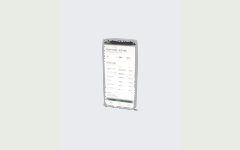
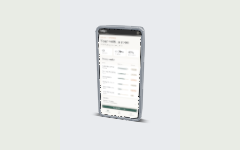
T-P9c: apply accepted polish across all device classes

Changed region(s): [[0.3792, 0.16, 0.6125, 0.8267]]

diff --git a/src/devices/build.ts b/src/devices/build.ts
@@ -1,5 +1,6 @@
 import {
   Box3,
+  type BufferGeometry,
   CylinderGeometry,
   ExtrudeGeometry,
   Group,
@@ -15,6 +16,7 @@ import {
   Texture,
   Vector3,
 } from 'three';
+import { toCreasedNormals } from 'three/addons/utils/BufferGeometryUtils.js';
 import { screenRect, shapeHash, type DeviceSpec } from './spec';
 import { patchScreen } from '../screen/material';
 import type { FitMode, Size } from '../screen/types';
@@ -143,7 +145,7 @@ interface SlabOpts {
 }
 
 /** Extruded rounded slab spanning x∈[−w/2,w/2], y∈[−h/2,h/2], z∈[0,depth]. */
-function slabGeometry(o: SlabOpts): ExtrudeGeometry {
+function slabGeometry(o: SlabOpts): BufferGeometry {
   const b = Math.min(o.bevel, o.depth / 2 - 1e-6, o.radius);
   const shape = new Shape();
   roundedRect(o.w - 2 * b, o.h - 2 * b, o.radius - b, shape);
@@ -163,8 +165,14 @@ function slabGeometry(o: SlabOpts): ExtrudeGeometry {
     steps: 1,
   });
   g.translate(0, 0, b); // ExtrudeGeometry spans z∈[−b, depth−b]; shift to [0, depth]
-  g.computeVertexNormals();
-  return g;
+  // The pinned utility hashes positions at 0.01 units. Work in millimetres
+  // so neighbouring corners of a metre-scale device are not merged together.
+  // It changes normals only; the outline, triangles and UVs stay unchanged.
+  g.scale(1000, 1000, 1000);
+  const smooth = toCreasedNormals(g, Math.PI / 3);
+  smooth.scale(0.001, 0.001, 0.001);
+  if (smooth !== g) g.dispose();
+  return smooth;
 }
 
 function edgeBevel(spec: DeviceSpec, depth: number): number {
@@ -173,6 +181,7 @@ function edgeBevel(spec: DeviceSpec, depth: number): number {
 
 interface Materials {
   frame: MeshPhysicalMaterial;
+  screenBacking: MeshPhysicalMaterial;
   key: MeshPhysicalMaterial;
   well: MeshPhysicalMaterial;
   screen: MeshPhysicalMaterial;
@@ -197,8 +206,16 @@ export function emissiveCompensation(clearcoat: number): number {
   return 1 / (1 - clearcoat * CLEARCOAT_F0);
 }
 
-function makeMaterials(spec: DeviceSpec): Materials {
+function makeMaterials(spec: DeviceSpec, darkScreenRecess: boolean): Materials {
   return {
+    // Physical screens reveal a dark recess at the SDF edge. Flat classes
+    // match the shell to avoid emphasizing edge stipple against white pads.
+    // This material belongs to the existing backplate, not a glass layer.
+    screenBacking: new MeshPhysicalMaterial({
+      color: darkScreenRecess ? 0x080a0d : 0xd9dde3,
+      metalness: darkScreenRecess ? 0 : spec.frameMetalness,
+      roughness: darkScreenRecess ? 0.85 : spec.frameRoughness,
+    }),
     frame: new MeshPhysicalMaterial({
       color: 0xd9dde3,
       metalness: spec.frameMetalness,
@@ -276,7 +293,7 @@ function buildSlab(
       radius: open.radius + bevel,
       bevel: 0,
     }),
-    mats.frame,
+    mats.screenBacking,
   );
   backplate.name = 'backplate';
   backplate.position.z = BUILDER_RATIOS.gap;
@@ -462,10 +479,10 @@ function buildInto(root: Group, spec: DeviceSpec, mats: Materials, browser: bool
   return { ...parts, bounds };
 }
 
-export function buildDevice(initial: DeviceSpec, browser = false): DeviceRig {
+export function buildDevice(initial: DeviceSpec, browser = false, darkScreenRecess = true): DeviceRig {
   const group = new Group();
   group.name = 'device';
-  const mats = makeMaterials(initial);
+  const mats = makeMaterials(initial, darkScreenRecess);
   let spec = { ...initial };
   let hash = shapeHash(spec);
   let built = buildInto(group, spec, mats, browser);
@@ -491,6 +508,10 @@ export function buildDevice(initial: DeviceSpec, browser = false): DeviceRig {
       spec = { ...next };
       mats.frame.metalness = spec.frameMetalness;
       mats.frame.roughness = spec.frameRoughness;
+      if (!darkScreenRecess) {
+        mats.screenBacking.metalness = spec.frameMetalness;
+        mats.screenBacking.roughness = spec.frameRoughness;
+      }
       mats.screen.clearcoat = spec.glassClearcoat;
       mats.screen.emissiveIntensity = emissiveCompensation(spec.glassClearcoat);
       const h = shapeHash(spec);

diff --git a/src/scene.ts b/src/scene.ts
@@ -170,7 +170,7 @@ export function createStage(initialDevice: DeviceId, initialScene: SceneId, aspe
 
   let id: DeviceId = initialDevice;
   let sceneId: SceneId = initialScene;
-  let rig: DeviceRig = buildDevice(presetSpec(id), id === 'browser');
+  let rig: DeviceRig = buildDevice(presetSpec(id), id === 'browser', id !== 'browser' && id !== 'card');
   rig.group.name = 'device-rig';
   posePivot.add(rig.group);
   let localGeometry: readonly number[] = cachedLocalGeometry(rig.group, id, rig.spec);
@@ -236,7 +236,9 @@ export function createStage(initialDevice: DeviceId, initialScene: SceneId, aspe
       || verticalTangent <= 0 || horizontalTangent <= 0) {
       throw new Error('Unable to frame device safely.');
     }
-    const referenceFit = Math.max(size.y, size.x / REFERENCE_ASPECT, size.z / REFERENCE_ASPECT) / FRAME_FILL;
+    // P-15 changes only the phone's reference fill; safe framing still follows.
+    const referenceFill = device === 'phone' ? 0.82 : FRAME_FILL;
+    const referenceFit = Math.max(size.y, size.x / REFERENCE_ASPECT, size.z / REFERENCE_ASPECT) / referenceFill;
     const referenceDist = referenceFit / 2 / Math.tan((CAMERA_FOV * Math.PI) / 360) + Math.max(size.z, size.x) / 2;
     const lensScale = Math.tan((CAMERA_FOV * Math.PI) / 360) / Math.tan((fov0 * Math.PI) / 360);
     const candidate = new PerspectiveCamera(fov, aspect, 0.01, 50);
@@ -371,7 +373,7 @@ export function createStage(initialDevice: DeviceId, initialScene: SceneId, aspe
       let committed = false;
       try {
         if (shapeChanged) {
-          candidateRig = buildDevice(next.spec, next.device === 'browser');
+          candidateRig = buildDevice(next.spec, next.device === 'browser', next.device !== 'browser' && next.device !== 'card');
           if (image) candidateRig.setImage(image.texture, { w: image.meta.width, h: image.meta.height });
           candidateRig.setImageFit(next.fit, next.pad, next.padColor);
         }
@@ -430,7 +432,7 @@ export function createStage(initialDevice: DeviceId, initialScene: SceneId, aspe
       posePivot.remove(rig.group);
       rig.dispose();
       id = next;
-      rig = buildDevice(presetSpec(id), id === 'browser');
+      rig = buildDevice(presetSpec(id), id === 'browser', id !== 'browser' && id !== 'card');
       rig.group.name = 'device-rig';
       posePivot.add(rig.group);
       scene.updateMatrixWorld(true);

diff --git a/src/devices/build.test.ts b/src/devices/build.test.ts
@@ -10,6 +10,41 @@ function size(rig: ReturnType<typeof buildDevice>): Vector3 {
 }
 
 describe('§4.2 device builder', () => {
+  it.each(DEVICE_IDS)('T-P9c %s owns its appropriate backing across rebuilds', (id) => {
+    const dark = id !== 'browser' && id !== 'card';
+    const rig = buildDevice(presetSpec(id), id === 'browser', dark);
+    const backing = rig.group.getObjectByName('backplate') as Mesh;
+    const material = backing.material as MeshStandardMaterial;
+    expect(material).not.toBe(rig.frame.material);
+    if (dark) expect(Math.max(material.color.r, material.color.g, material.color.b)).toBeLessThan(0.01);
+    else expect(material.color.equals((rig.frame.material as MeshStandardMaterial).color)).toBe(true);
+    let disposed = 0;
+    material.addEventListener('dispose', () => disposed++);
+    rig.update({ ...rig.spec, w: rig.spec.w + 0.001 });
+    expect((rig.group.getObjectByName('backplate') as Mesh).material).toBe(material);
+    expect(disposed).toBe(0);
+    if (!dark) {
+      rig.update({ ...rig.spec, frameMetalness: 0.22, frameRoughness: 0.44 });
+      expect(material.metalness).toBe(0.22); expect(material.roughness).toBe(0.44);
+    }
+    rig.dispose();
+    expect(disposed).toBe(1);
+  });
+
+  it.each(DEVICE_IDS)('T-P9c %s bevel normals vary within triangles, avoiding flat bands', (id) => {
+    const rig = buildDevice(presetSpec(id), id === 'browser');
+    const normals = rig.frame.geometry.getAttribute('normal');
+    const a = new Vector3(); const b = new Vector3();
+    let interpolated = 0;
+    for (let i = 0; i < normals.count; i += 3) {
+      a.fromBufferAttribute(normals, i); b.fromBufferAttribute(normals, i + 1);
+      expect(a.length()).toBeCloseTo(1, 5);
+      if (a.dot(b) < 0.9999) interpolated++;
+    }
+    expect(interpolated).toBeGreaterThan(10);
+    rig.dispose();
+  });
+
   it.each(DEVICE_IDS)('%s bounding box matches its spec', (id) => {
     const spec = PRESETS[id];
     const rig = buildDevice(spec, id === 'browser');

diff --git a/src/scene/presets.ts b/src/scene/presets.ts
@@ -7,6 +7,8 @@
  * Colours are linear RGB triples except `background`, which is the sRGB hex
  * the page and `scene.background` show. Angles are degrees.
  */
+import type { DeviceId } from '../devices/presets';
+
 export const SCENE_IDS = ['soft-studio', 'dark-glass', 'warm-sunset', 'clean-white'] as const;
 export type SceneId = (typeof SCENE_IDS)[number];
 
@@ -41,11 +43,11 @@ const WHITE: Rgb = [1, 1, 1];
 export const SCENE_PRESETS: Readonly<Record<SceneId, ScenePreset>> = {
   'soft-studio': {
     background: '#e9ebee',
-    sky: { zenith: WHITE, horizon: [0.85 * 0.847, 0.85 * 0.867, 0.85 * 0.902], ground: [0.45 * 0.604, 0.45 * 0.627, 0.45 * 0.659] },
-    window: { elevation: 45, azimuth: -35, size: [40, 25], colour: WHITE, intensity: 6 },
+    sky: { zenith: [0.8, 0.85, 0.92], horizon: [0.30, 0.33, 0.38], ground: [0.08, 0.09, 0.11] },
+    window: { elevation: 35, azimuth: 140, size: [45, 35], colour: WHITE, intensity: 16 },
     key: { colour: WHITE, intensity: 2.0, position: [0.6, 1.2, 0.8] },
     exposure: 1.0,
-    shadow: { opacity: 0.55, blur: 2.5 },
+    shadow: { opacity: 0.84, blur: 6.0 },
     sigma: 0.03,
   },
   'dark-glass': {
@@ -81,4 +83,17 @@ export const SCENE_PRESETS: Readonly<Record<SceneId, ScenePreset>> = {
 
 export function isSceneId(id: string): id is SceneId {
   return (SCENE_IDS as readonly string[]).includes(id);
+}
+
+/** T-P9c: a broad base needs less spread than an upright phone's contact. */
+const STUDIO_SHADOWS: Readonly<Record<DeviceId, ScenePreset['shadow']>> = {
+  phone: { opacity: 0.84, blur: 6 },
+  tablet: { opacity: 0.82, blur: 5 },
+  laptop: { opacity: 0.72, blur: 4.5 },
+  browser: { opacity: 0.72, blur: 4.5 },
+  card: { opacity: 0.65, blur: 4.5 },
+};
+
+export function contactShadowPreset(scene: SceneId, device: DeviceId): ScenePreset['shadow'] {
+  return scene === 'soft-studio' ? STUDIO_SHADOWS[device] : SCENE_PRESETS[scene].shadow;
 }

diff --git a/src/devices/presets.ts b/src/devices/presets.ts
@@ -15,33 +15,33 @@ const UPRIGHT = Math.PI / 2;
 
 export const PRESETS: Readonly<Record<DeviceId, DeviceSpec>> = {
   phone: {
-    w: 0.072, h: 0.150, depth: 0.008,
-    cornerRadius: 0.010, bezel: 0.0035, screenInset: 0.0008,
-    frameMetalness: 0.8, frameRoughness: 0.35, glassClearcoat: 1.0,
+    w: 0.07266, h: 0.150, depth: 0.010,
+    cornerRadius: 0.010, bezel: 0.0042, screenInset: 0.0008,
+    frameMetalness: 0.95, frameRoughness: 0.18, glassClearcoat: 1.0,
     standType: 'none', hingeAngle: UPRIGHT,
   },
   tablet: {
-    w: 0.250, h: 0.178, depth: 0.0065,
+    w: 0.250, h: 0.178, depth: 0.008,
     cornerRadius: 0.012, bezel: 0.009, screenInset: 0.0008,
-    frameMetalness: 0.8, frameRoughness: 0.4, glassClearcoat: 1.0,
+    frameMetalness: 0.95, frameRoughness: 0.24, glassClearcoat: 1.0,
     standType: 'none', hingeAngle: UPRIGHT,
   },
   laptop: {
-    w: 0.312, h: 0.212, depth: 0.006,
+    w: 0.312, h: 0.212, depth: 0.007,
     cornerRadius: 0.008, bezel: 0.007, screenInset: 0.0008,
-    frameMetalness: 0.7, frameRoughness: 0.45, glassClearcoat: 0.6,
+    frameMetalness: 0.9, frameRoughness: 0.28, glassClearcoat: 0.6,
     standType: 'hinge', hingeAngle: 1.85, // ~106°, the by-eye default (§10)
   },
   browser: {
     w: 0.320, h: 0.200, depth: 0.004,
     cornerRadius: 0.009, bezel: 0.004, screenInset: 0.0006,
-    frameMetalness: 0.0, frameRoughness: 0.6, glassClearcoat: 0.0,
+    frameMetalness: 0.35, frameRoughness: 0.32, glassClearcoat: 0.0,
     standType: 'none', hingeAngle: UPRIGHT,
   },
   card: {
     w: 0.300, h: 0.200, depth: 0.003,
     cornerRadius: 0.012, bezel: 0.001, screenInset: 0.0005,
-    frameMetalness: 0.0, frameRoughness: 0.7, glassClearcoat: 0.0,
+    frameMetalness: 0.15, frameRoughness: 0.4, glassClearcoat: 0.0,
     standType: 'none', hingeAngle: UPRIGHT,
   },
 };

diff --git a/src/scene/studio.ts b/src/scene/studio.ts
@@ -4,7 +4,7 @@ import type { Stage } from '../scene';
 import { ContactShadow } from './contactShadow';
 import { generateEnvironment, type EnvironmentMap } from './environment';
 import { createPipeline, type Pipeline } from './pipeline';
-import { SCENE_IDS, SCENE_PRESETS, isSceneId, type SceneId } from './presets';
+import { SCENE_IDS, SCENE_PRESETS, contactShadowPreset, isSceneId, type SceneId } from './presets';
 import { defaultBackground, prepareBackground, validateBackground, type BackgroundSettings } from './background';
 
 export type ToneMappingId = 'agx' | 'aces';
@@ -68,7 +68,11 @@ export function createStudio(renderer: WebGLRenderer, stage: Stage, opts: { msaa
     if (!shadow || !shadowDirty) return;
     const viewport = renderer.getViewport(new Vector4()); const scissor = renderer.getScissor(new Vector4());
     const scissorTest = renderer.getScissorTest();
-    try { renderer.setScissorTest(false); shadow.fit(stage.getWorldBounds()); shadow.render(renderer, stage.scene); shadowDirty = false; }
+    try {
+      renderer.setScissorTest(false);
+      shadow.setParams(contactShadowPreset(settings.scene, stage.getDevice()));
+      shadow.fit(stage.getWorldBounds()); shadow.render(renderer, stage.scene); shadowDirty = false;
+    }
     finally { renderer.setViewport(viewport); renderer.setScissor(scissor); renderer.setScissorTest(scissorTest); }
   }
   function render(): void {

diff --git a/guards/panel.test.ts b/guards/panel.test.ts
@@ -93,11 +93,11 @@ it('T-P6 review: invalid edits remain errors until corrected or replaced by rese
     await height.fill('160');
     expect(await width.inputValue()).toBe('19');expect(await width.getAttribute('aria-invalid')).toBe('true');
     expect(await error.innerText()).toContain('Width');
-    expect(await page.evaluate(()=>window.__plinth.getSpec().w)).toBe(.072);
+    expect(await page.evaluate(()=>window.__plinth.getSpec().w)).toBe(.07266);
     await page.locator('#reset').click();
-    expect(await width.inputValue()).toBe('72');expect(await width.getAttribute('aria-invalid')).toBeNull();
+    expect(await width.inputValue()).toBe('72.66');expect(await width.getAttribute('aria-invalid')).toBeNull();
     expect(await width.getAttribute('aria-describedby')).toBeNull();expect(await error.innerText()).toBe('');
-    expect(await page.evaluate(()=>window.__plinth.getSpec().w)).toBe(.072);
+    expect(await page.evaluate(()=>window.__plinth.getSpec().w)).toBe(.07266);
     await width.fill('19');await page.locator('[data-composition="warm-card"]').click();
     expect(await width.inputValue()).toBe('300');expect(await width.getAttribute('aria-invalid')).toBeNull();
     expect(await error.innerText()).toBe('');expect(await page.evaluate(()=>window.__plinth.getSpec().w)).toBe(.3);

diff --git a/src/scene.test.ts b/src/scene.test.ts
@@ -63,6 +63,20 @@ describe('T-P2 stage', () => {
 });
 
 describe('T-P5 world framing and posing', () => {
+  it('T-P9c uses the literal P-15 phone fill and preserves other reference fills', () => {
+    for (const id of DEVICE_IDS) {
+      const stage = createStage(id, 'soft-studio', 1.6);
+      const bounds = geometryWorldBounds(stage.getRig().group);
+      const size = bounds.getSize(new Vector3());
+      const fill = id === 'phone' ? 0.82 : 0.6;
+      const wide = ['tablet', 'browser', 'card'].includes(id);
+      const expected = (Math.max(size.y, size.x / 1.6, size.z / 1.6) / fill / 2 / Math.tan(16 * Math.PI / 180)
+        + Math.max(size.x, size.z) / 2) * Math.tan(16 * Math.PI / 180) / Math.tan((wide ? 12 : 16) * Math.PI / 180);
+      expect(stage.camera.position.distanceTo(bounds.getCenter(new Vector3()))).toBeCloseTo(expected, 7);
+      stage.dispose();
+    }
+  });
+
   const aspects = [1, 4 / 5, 9 / 16, 16 / 9, 3];
   const poses = ['front', 'hero', 'top', 'lean'] as const;
   const cornersOf = (box: Box3): Vector3[] => {

diff --git a/docs/tickets/T-P9c.md b/docs/tickets/T-P9c.md
@@ -13,8 +13,9 @@ portrait-demo margins remain explicit: no silent crop or upload replacement.
 ## Scope
 
 1. Implement the accepted phone dimensions/material, dark screen backing,
-   and smooth solid-surface normals. Extend backing and smoothing to every
-   device, including the laptop base. Preserve geometry positions and UVs;
+   and smooth solid-surface normals. Extend smoothing to every device and
+   the laptop base; use F16's dark recess for physical devices and shell
+   backing for flat browser/card classes. Preserve geometry positions and UVs;
    handle the pinned normal utility in millimetres before returning to metres.
 2. Apply F13's device material/depth table. Keep tablet/laptop screen
    proportions and hinge; browser/card retain their thin shapes.
@@ -44,14 +45,36 @@ portrait-demo margins remain explicit: no silent crop or upload replacement.
 src/devices/build.ts, src/devices/presets.ts, src/devices/build.test.ts;
 src/scene.ts, src/scene.test.ts, src/scene/presets.ts, src/scene/studio.ts;
 scripts/polish-capture.mjs; public/compositions/*.png; this ticket/research.
+F17 adds only the three exact phone-default literals in guards/panel.test.ts;
+all existing actions/assertions and independent old-state fixtures stay.
 P-15 is a separate prior planning commit, outside this implementation set.
 
 ## Must not do
 
-No fixture, guard, dependency, workflow, image/demo, URL schema or screen
+No fixture, guard (except F17's exact literal update), dependency, workflow, image/demo, URL schema or screen
 shader edits; no added lights/render targets, replica geometry, runtime
 network or automatic crop. No merge, deployment or submission in this task.
 
 ## Implementation evidence
 
-Pending.
+Linux / Node 24.19.0 / Chromium 153.0.8010.12 (pinned headless shell).
+After environment recovery, the Playwright CDN timed out. The exact official
+Chrome-for-Testing archive was obtained from its Google storage origin and
+verified against the provider's MD5 9a8eb6135b1cda56de8f547776291e35. No pin
+or workflow changed.
+
+- Unit: 188/188 pass, 27 files. Eleven new T-P9c tests fail on old builder/
+  camera source with the new tests retained (11/11 expected failures), then
+  pass on the implementation. No existing assertion changed.
+- Typecheck and build pass; existing chunk warning remains (703.58 kB).
+- Actual UI capture: 20 device/scene pairs, 16:9/DPR1, plus 400×800 fresh
+  mobile and a decoded 1080×1350 PNG downloaded through the real link.
+  No pageerror; screenshots from actual source, no research transforms.
+- Four composition thumbnails regenerated with the existing script.
+- Inspection caught F16's flat-class edge contrast and corrected it before
+  the final captures. Browser/card remain thin and use shell-colored backing;
+  physical device rims are smooth with a dark recess. Portrait demo side
+  margins remain. No screen shader or alpha/color threshold changed.
+- Final full npm run ci is running. The earlier run was deliberately stopped
+  before F16's source correction and is not counted as a pass. Cloud CI/PG/PNG,
+  baseline bless, fresh review and merge remain outstanding.

diff --git a/docs/tickets/T-P9c-research.md b/docs/tickets/T-P9c-research.md
@@ -191,3 +191,22 @@ tražio istu doradu ostalih uređaja. Izbor proširujemo na celu familiju.
 Posle prekida okruženja, poslednja proba i recept obnovljeni su iz sačuvane
 arhive verzije 2. Istorijske transform skripte pripadaju izvornom stanju pre
 implementacije; novi capture mora čitati stvarni kod bez tih zamena.
+
+- F16 — Vizuelna korekcija F12 posle stvarnog implementacionog grida:
+  crni backplate povećava vidljivost postojećeg SDF/alphaHash šuma uz bele
+  margine tankih browser/card klasa. One zato zadržavaju backing u boji i
+  fizičkim parametrima shell-a; phone/tablet/laptop koriste tamni recess.
+  Izbor je eksplicitan po device ID-u u svim Stage build putevima, ne po
+  upload-u, clearcoat-u ili proizvoljnoj dimenziji. Vlasništvo materijala,
+  rebuild/dispose i praćenje material slider-a proveravaju novi testovi.
+  Ova korekcija unapređuje prikaz i ne menja postojeće testove ili pragove;
+  spec nije promenjen. Globalni SDF anti-aliasing nije deo ovog tiketa.
+
+- F17 — Puna CI provera otkriva da `guards/panel.test.ts:96,98,100`
+  doslovno očekuje stari phone preset .072 / '72' posle invalid unosa i
+  Reset-a. Prihvaćeni novi preset je .07266 / '72.66'. Potrebno je uskladiti
+  samo te tri literalne vrednosti, uz iste akcije, broj/tip tvrdnji i sva
+  aria/error/reset očekivanja. To je ažuriranje test podatka na odobrenu
+  dimenziju, ne slabiji prag ili preskakanje validacije. Provera sa starim
+  phone presetom mora pasti, sa novim proći. Literalni codec fixture .072
+  ostaje nepromenjen: stari deljeni spec mora i dalje biti čitljiv.
